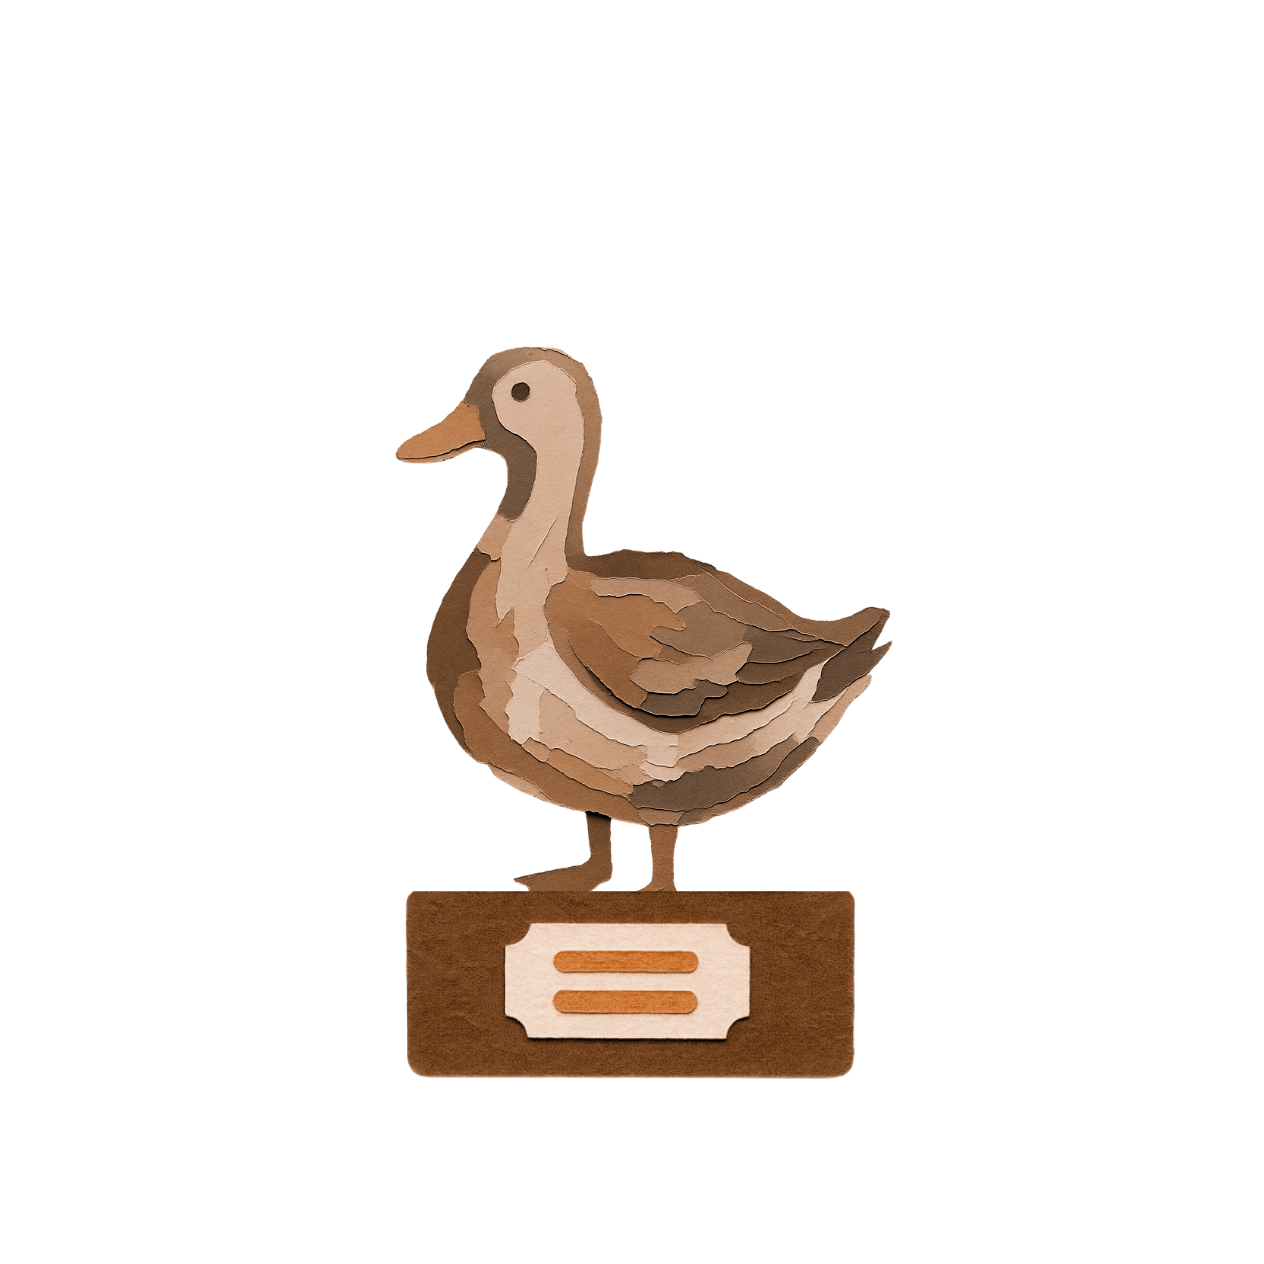
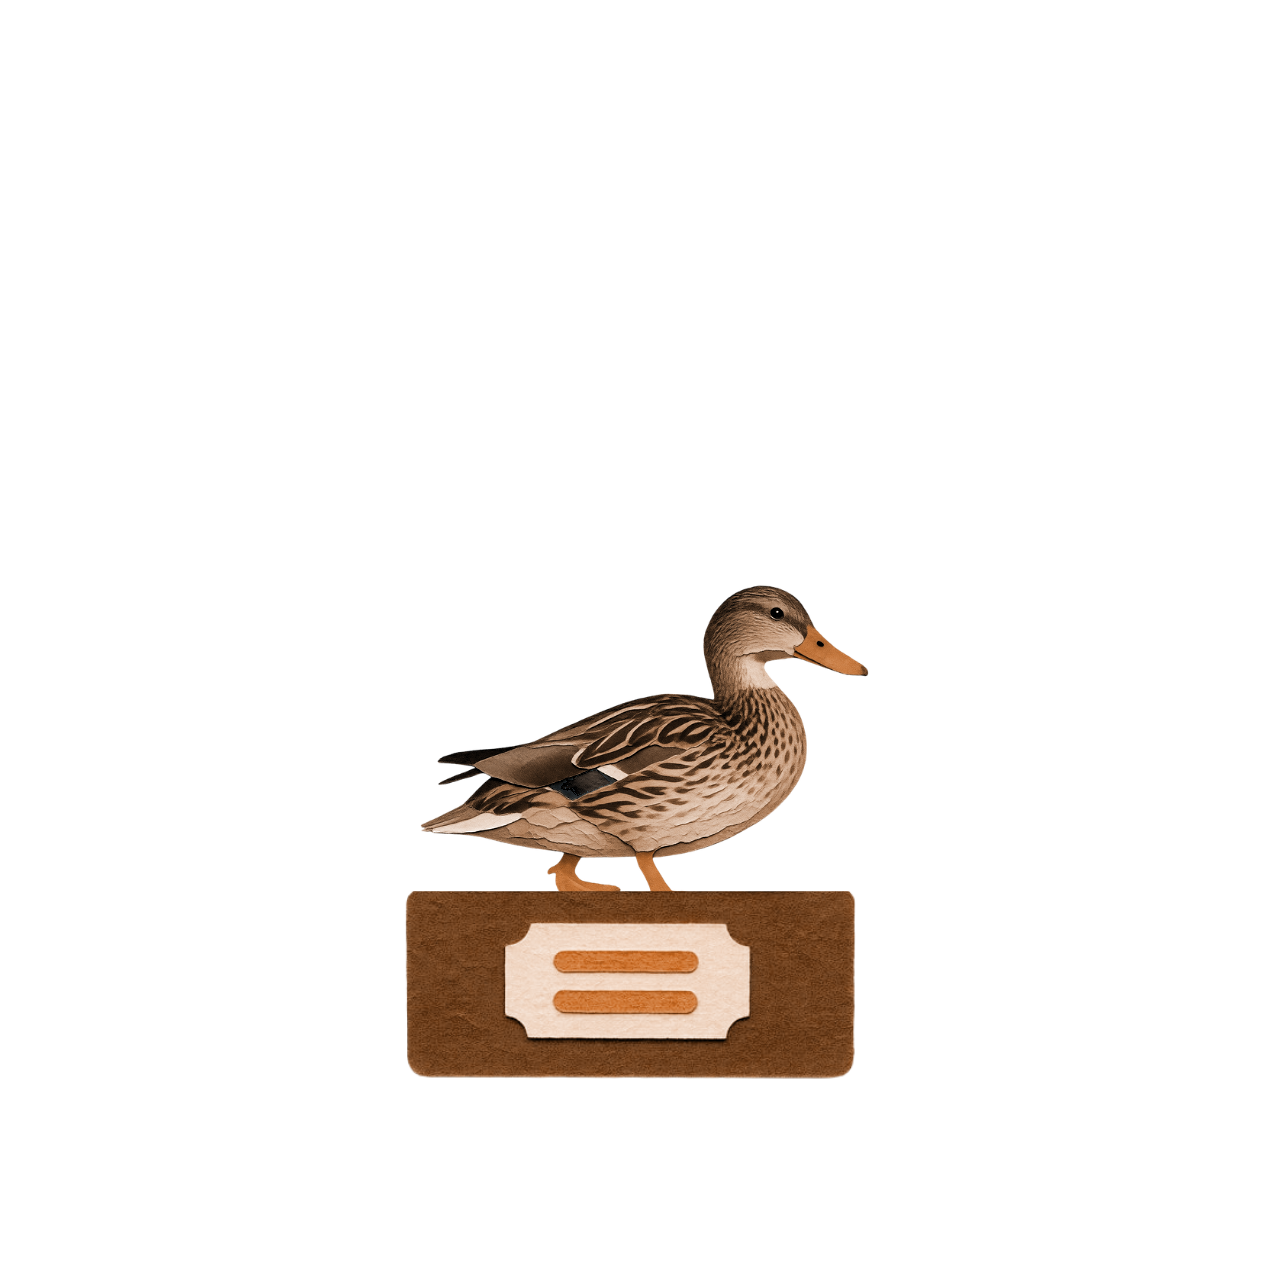
Trophee Canards, oies & cygnes : 6 nouveaux visuels papier-craft Canva (v2). Cache v185.

Changed region(s): [[0.3085, 0.2777, 0.7097, 0.7097]]

diff --git a/service-worker.js b/service-worker.js
@@ -3,7 +3,7 @@
 //   puis rafraichit en background. Prochain reload = nouvelle version.
 // - Requetes cross-origin (Firestore, iNaturalist, xeno-canto, Wikipedia, etc.) : reseau seul.
 // - Bump CACHE_VERSION quand on veut invalider volontairement.
-const CACHE_VERSION = 'v184-2026-09-15-laridae-visuel-v2';
+const CACHE_VERSION = 'v185-2026-09-15-anatidae-visuel-v2';
 const CACHE_NAME = 'lmb-' + CACHE_VERSION;
 
 self.addEventListener('install', (e) => {
